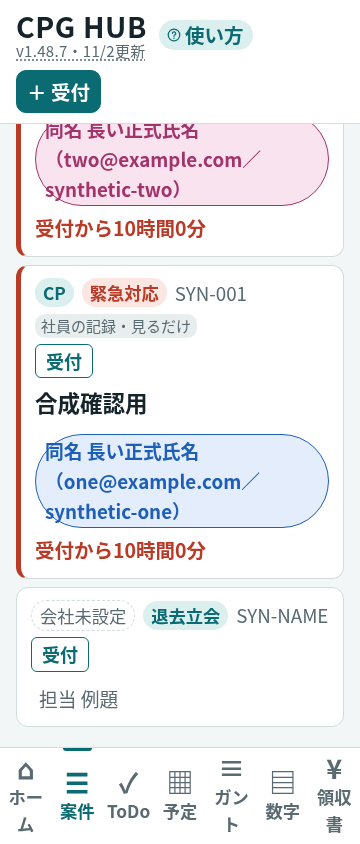
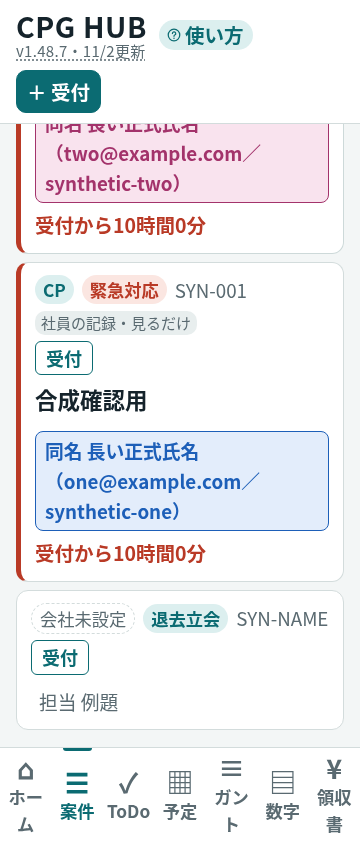
Guard ambiguous name keys and order name history by predecessor links

Changed region(s): [[0.0306, 0.1232, 0.9472, 0.8626]]

diff --git a/index.html b/index.html
@@ -164,11 +164,11 @@ details.fold>.panel>h3:first-child{display:none}
 .chip.nco{background:transparent;color:var(--muted);font-weight:400;border:1px dashed var(--line)}
 .chip.ro{background:var(--sunk);color:var(--muted);font-size:10px;font-weight:400;padding:0 6px}
 /* 担当のバッジ：社員一覧の順で決まる色（同じ人は同じ色・同じ表記） */
-.pbadge{display:inline-block;font-size:12.5px;font-weight:700;padding:1px 9px;border-radius:99px;white-space:nowrap;border:1px solid currentColor}
+.pbadge{display:inline-block;font-size:12.5px;font-weight:700;padding:4px 9px;border-radius:8px;white-space:nowrap;border:1px solid currentColor;line-height:1.6;max-width:100%;height:auto;box-sizing:border-box}
 .pb0{color:var(--blue);background:var(--blue-soft)}.pb1{color:var(--gc1);background:var(--gc1-soft)}.pb2{color:var(--green);background:var(--green-soft)}
 .pb3{color:var(--gc0);background:var(--gc0-soft)}.pb4{color:var(--amber);background:var(--amber-soft)}.pb5{color:var(--gc2);background:var(--gc2-soft)}
 .pbx{color:var(--fg);background:var(--sunk)}
-.pbadge.sm{font-size:10.5px;padding:0 6px}
+.pbadge.sm{font-size:10.5px;padding:2px 6px;border-radius:6px}
 /* 領収書の切り替え：予定の 月/週/日 と同じ大きさ。4つ（法人カードあり）でも400px幅に収める */
 .seg.cv.rtabs button{flex:1 1 auto;min-width:0;padding:8px 4px;white-space:nowrap;font-size:clamp(13px,4vw,18px)}
 .chip.t-kinkyu{background:var(--red-soft);color:var(--red)}
@@ -559,7 +559,7 @@ const typeKeyOf=l=>Object.keys(TYPES).find(k=>TYPES[k].label===l)||"reno";
 function roCase(r,x){
   const v=k=>String(r[k]==null?"":r[k]), d=k=>v(k).slice(0,10), num=k=>v(k)===""?null:Number(v(k));
   const stage=STAGES[v("段階キー")]?v("段階キー"):Object.keys(STAGES).find(k=>STAGES[k]===v("段階"))||"new", paid=Number(v("入金済額"))||0;
-  return Object.assign(CASE_DEFAULTS(),{ro:true,company:COMPANIES.includes(v("会社"))?v("会社"):"",owner:x.s.name,srcId:v("受付番号"),id:v("受付番号")+"・"+x.s.sheetId,type:typeKeyOf(v("種類")),stage,clientKind:"",client:v("依頼元"),property:v("物件"),room:v("部屋"),tantou:tantouLabel(v("担当")||x.s.name,x.s.sheetId),
+  return Object.assign(CASE_DEFAULTS(),{ro:true,company:COMPANIES.includes(v("会社"))?v("会社"):"",owner:x.s.name,srcId:v("受付番号"),id:v("受付番号")+"・"+x.s.sheetId,type:typeKeyOf(v("種類")),stage,clientKind:"",client:v("依頼元"),property:v("物件"),room:v("部屋"),tantou:tantouLabel(v("担当"),x.s.sheetId),
     receivedAt:v("受付日時")||(d("受付日")?new Date(d("受付日")+"T00:00:00").toISOString():""),planDate:d("予定日"),planTime:v("予定時刻（日本時間）"),cancelledAt:v("受注後取消日時"),cancelReason:v("受注後取消理由"),siteDate:d("実施日"),estAmount:num("見積額"),estSentDate:d("見積提出日"),holdDate:d("保留日"),lossDate:d("失注日"),lossReason:v("失注理由"),
     orderDate:d("受注日"),jobNo:v("仕事番号"),handedDate:d("引渡日"),builtDate:d("施工完了日"),billDate:d("請求日"),billAmount:num("請求額"),payDue:d("入金予定日"),payments:paid?[{date:d("入金日")||d("請求日"),amount:paid}]:[],paidDate:stage==="paid"?d("入金日"):""});
 }
@@ -641,11 +641,11 @@ function personBadge(name,small,owner){
  return '<span class="pbadge '+(i<0?"pbx":"pb"+(i%6))+(small?' sm':'')+'">'+h(lab)+'</span>';
 }
 function tantouOptions(){
- const list=nameList(),pk=p=>p.sheetId||p.name,out=STAFF.map(v=>({v,l:tantouLabel(v)})),taken=new Set(STAFF.map(v=>personOf(v,ownOwner())).filter(Boolean).map(pk));
- for(const p of list)if(!p.removed&&!taken.has(pk(p))){const v=p.nameKey||p.registeredName||p.name;out.push({v,l:personLabel(p),disabled:list.filter(x=>(x.nameKey||x.registeredName||x.name)===v).length>1});taken.add(pk(p))}
+ const list=nameList(),pk=p=>p.sheetId||p.name,out=STAFF.map(v=>({v,l:tantouLabel(v),disabled:CPGNames.matches(list,v,STAFF).length>1})),taken=new Set(STAFF.map(v=>personOf(v,ownOwner())).filter(Boolean).map(pk));
+ for(const p of list)if(!p.removed&&!taken.has(pk(p))){const v=p.nameKey||p.registeredName||p.name;out.push({v,l:personLabel(p),disabled:CPGNames.matches(list,v,STAFF).length>1});taken.add(pk(p))}
  const seen=new Set();return out.filter(o=>!seen.has(o.v)&&seen.add(o.v));
 }
-const tantouOptsHtml=()=>tantouOptions().map(o=>'<option value="'+h(o.v)+'"'+(o.disabled?' disabled':'')+'>'+h(o.l)+(o.disabled?'（キー重複・選択不可）':'')+'</option>').join("");
+const tantouOptsHtml=()=>tantouOptions().map(o=>'<option value="'+h(o.v)+'"'+(o.disabled?' disabled':'')+'>'+h(o.l)+(o.disabled?'（氏名重複・選択不可）':'')+'</option>').join("");
 const isEizen=c=>c.type==="eizen";
 const isTaikyo=c=>c.type==="taikyo";
 const itemsSum=(c,b)=>c.items.filter(i=>!b||i.burden===b).reduce((s,i)=>s+(Number(i.amount)||0),0);
@@ -2306,7 +2306,7 @@ async function dataSync(step){
   }
   try{if(!tabsKnown||tabs.includes("連絡")||DB.requestBoxEmployee){const r=await requestBoxSync(id);step("指示箱（GM・全社）",true,"未完了 "+r.open+"件・完了報告 "+r.sent+"件");}}
   catch(err){if(err.message==="signin"||err.requestBoxStopped||caseSaveUncertain)throw err;step("指示箱（GM・全社）",false,err.message||dMsg(err));}
-  if(tabs.includes(NAME_TAB)){try{const rows=await namesRead(id),p=CPGNames.overlay([{name:RS().name||"",sheetId:id}],rows)[0];D().nameProfile=p;shareSave();step("正規氏名",!CPGNames.pending(rows,id).length,CPGNames.pending(rows,id).length?"変更の確認途中です。確認済みの表示名を使います":"表示名を確認しました")}catch(err){step("正規氏名",false,dMsg(err))}}
+  if(tabs.includes(NAME_TAB)){try{const rows=await namesRead(id),p=CPGNames.overlay([{name:RS().name||"",sheetId:id}],rows)[0];D().nameProfile=p;shareSave();step("正規氏名",!CPGNames.pending(rows,id).length,CPGNames.pending(rows,id).length?"変更の確認途中です。確認済みの表示名を使います":"表示名を確認しました")}catch(err){if(caseSaveUncertain||err.message==="signin")throw err;step("正規氏名",false,dMsg(err))}}
   d.todo=dataRows().todo;
   for(const [tab,rows] of [["案件",d.cases],["入金",d.pay],["立替",d.rc],["ToDo",d.todo]]){
     try{await sheetWrite(id,tab,rows);step("記録シート「"+tab+"」",true,(rows.length-1)+"行")}catch(err){step("記録シート「"+tab+"」",false,dMsg(err))}
@@ -2634,7 +2634,7 @@ async function adminNameSave(sheetId,name,log=()=>{}){return adminShareOperation
  const d=D(),list=d.listId,p=d.staff.find(x=>x.sheetId===sheetId&&!x.removed);if(!p)throw Error("変更できる社員が見つかりません。");
  const initial=await namesRead(list),pending=CPGNames.pending(initial,sheetId);if(pending.length>1)throw Error("未確認の氏名変更が複数あります。個別確認してください。");
  let change=pending[0];if(change&&CPGNames.clean(name)!==change.after)throw Error("未確認の変更「"+change.after+"」を先に再確認してください。");
- if(!change&&CPGNames.clean(name)===CPGNames.clean(p.name)){const last=initial.filter(x=>x.sheetId===sheetId&&x.state==='confirmed').at(-1);if(last)change=initial.find(x=>x.id===last.id&&x.state==='intent');}
+ if(!change&&CPGNames.clean(name)===CPGNames.clean(p.name)){const last=CPGNames.chain(initial,sheetId).at(-1);if(last)change=initial.find(x=>x.id===last.id&&x.state==='intent');}
  if(!change)change=CPGNames.change(p,name,crypto.randomUUID(),new Date().toISOString());
  const targets=[sheetId,...(d.viewListId?[d.viewListId]:[])];if(new Set([list,...targets]).size!==targets.length+1)throw Error("氏名の保存先IDが重複しています。");
  const source=(await sheetRead(list,["社員"]))["社員"]||[],token=G.token;

diff --git a/manual-admin.html b/manual-admin.html
@@ -172,7 +172,7 @@ th{color:var(--muted);font-size:13px}
 <section><h2>v1.48.2（2026年11月1日）日付のずれと文字の折り返し</h2><p>同期結果の「日付の変わった案件」には受付番号・物件・部屋と、HUBの予定日／カレンダーに登録した日付を表示します。最初の5件を表示し、「ほか○件」で残りを開閉できます。案件を押すとGoogleカレンダー欄へ移動します。日付のずれは同期エラーとは別の「要確認」です。必要な更新は本人が「カレンダーの予定を更新」を押して行います。自動更新はしません。文字が大きい場合も枠内で折り返し、広い表は表の中で横にスクロールします。</p></section>
 <section><h2>v1.48.3（2026年11月1日）数字の月別・全期間</h2><p>数字画面の「月別／全期間」で集計期間を切り替えます。月別の初期表示は日本時間の今月で、年月を選ぶか「前月」「翌月」で移動できます。見積提出は見積提出日、受注は受注日、失注は失注日で数え、担当別・種類別・理由・受注額・決定率を同じ期間で比べられます。全期間も日付のない実績は含めません。決定率は受注÷（受注＋失注）、0件なら「—」です。失注日未入力の注意は期間外の独立表示で、失注件数・決定率に含めません。未入金は現在残高で、選択期間の対象外です。失注段階優先と正しい受注後取消の受注履歴は従来どおりです。</p></section>
 <section><h2>v1.48.4（2026年11月1日）同期をホームの先頭へ</h2><p>ホームは、ヘッダーの直下に「Googleとまとめて同期」ボタンと同期結果を表示し、その下に今日のまとめ、タスクリクエスト、会社の動き（社長・全社・GM）を並べます。同期成功時の開閉や、エラー・今日未同期・未送信の完了報告・日付のずれ等の注意は従来どおりです。配置だけの変更で、同期・保存・権限・集計は変わりません。</p></section>
-<section><h2>v1.48.7（2026年11月2日）氏名をフルネームで表示</h2><p>社員一覧で確認できる正式な氏名を、担当・案件・ToDo・数字などに表示します。過去の担当名や案件の記録は書き換えません。同姓同名はGmailとシートIDで区別し、誰か分からない略称は推測せず元の表示を残します。</p><p>正規氏名の変更は社長用の「数字」→「管理（社長用）」→対象社員の「正規氏名」から行います。変更前後・旧担当キー・保存先を確認し「変更を確認して保存」を押します。「やめる」または確認画面を閉じると変更しません。管理者が変更した後、社員・閲覧者は新版で同期すると表示に反映します。旧版は正規氏名の変更履歴を読みません。</p><p>変更は既存シートの「社員氏名履歴」に追記します。氏名・旧名・シートID・変更日時を含み、既存の閲覧権限を持つ人が読めます。新しい権限は付けません。通信途中の失敗時は成功と考えず、同じ名前で再確認してください。複数シートへの反映は一括ではないため、一部だけ反映する場合があります。管理操作は1端末・1タブずつ行ってください。社員本人の従来の氏名設定・過去の精算書や指示に記録された名前は、自動置換しません。</p></section>
+<section><h2>v1.48.7（2026年11月2日）氏名をフルネームで表示</h2><p>社員一覧で確認できる正式な氏名を、担当・案件・ToDo・数字などに表示します。過去の担当名や案件の記録は書き換えません。同姓同名はGmailとシートIDで区別し、正規名と旧名が重なる担当選択は無効にします。誰か分からない略称は推測せず元の表示を残します。</p><p>正規氏名の変更は社長用の「数字」→「管理（社長用）」→対象社員の「正規氏名」から行います。変更前後・旧担当キー・保存先を確認し「変更を確認して保存」を押します。「やめる」または確認画面を閉じると変更しません。管理者が変更した後、社員・閲覧者は新版で同期すると表示に反映します。旧版は正規氏名の変更履歴を読みません。</p><p>変更は既存シートの「社員氏名履歴」に追記します。氏名・旧名・シートID・変更日時を含み、既存の閲覧権限を持つ人が読めます。新しい権限は付けません。通信途中の失敗時は成功と考えず、同じ名前で再確認してください。複数シートへの反映は一括ではないため、一部だけ反映する場合があります。管理操作は1端末・1タブずつ行ってください。社員本人の従来の氏名設定・過去の精算書や指示に記録された名前は、自動置換しません。</p></section>
 <section><h2>v1.48.6（2026年11月2日）GMの範囲と共有の確認</h2><p>GMが見たり指示を出したりできる相手は、GMと同じ1社だけに所属する一般社員です。複数会社に所属する人、全社・GMなどの管理者は含めません。全社の範囲は従来どおりです。会社・役割を保存するときは、共有の一覧（誰のシート・ファイルID・相手・権限）を確認してから実行します。旧共有や変更元を確認できない共有は残し、「要確認」と表示します。役割を外しても、要確認の共有が残る場合はGoogle上のアクセスが続きます。自動的に全部外れたとは考えず、管理者が個別に確認してください。</p><p>共有確認後、社長の社員一覧に「共有管理履歴」を作り、変更前後の権限とGmail・ファイルID・日時を追記します。初回表示や通常同期では作りません。作成済みの社員列と指示箱の列は変えません。この機能で新しく付け、結果と履歴の読戻しまで確認できた共有だけを解除対象にします。既存の共有は再利用しても解除対象にしません。結果不明・履歴不整合・外部変更では自動再試行せず、表示された対象を確認してください。管理操作は1端末・1タブで行い、Driveの共有変更と同時に行わないでください。同じ内容で外部から付け直された共有まで識別する保証はありません。新規作成を途中でやめてもファイルは残します。案内メールは自動送信しません。旧版では安全確認が働かないため、管理に使う全端末・旧タブを更新してから操作してください。</p></section>
 <section><h2>v1.48.5（2026年11月1日）保存済み予定と未取得日の区別</h2><p>予定の月・週・日表示では、保存済みの範囲に重なる予定を表示します。月の前後の余白が保存範囲外でも、取得済みの月の予定は消えません。範囲外や読込みが確認できない日は「未取得」と表示し、「予定なし」と区別します。一部のカレンダーを読めなかった場合も、取得できた予定を表示しながら未取得の注意を残します。最新の予定を取得する操作は従来どおり「Googleとまとめて同期」です。Googleの予定・同期処理・保存形式・閲覧権限は変更しません。</p></section>
 </main>

diff --git a/manual.html b/manual.html
@@ -404,7 +404,7 @@ th{color:var(--muted);font-size:13px}
 <section><h2>v1.48.2（2026年11月1日）日付のずれと文字の折り返し</h2><p>同期結果の「日付の変わった案件」には受付番号・物件・部屋と、HUBの予定日／カレンダーに登録した日付を表示します。最初の5件を表示し、「ほか○件」で残りを開閉できます。案件を押すとGoogleカレンダー欄へ移動します。日付のずれは同期エラーとは別の「要確認」です。必要な更新は本人が「カレンダーの予定を更新」を押して行います。自動更新はしません。文字が大きい場合も枠内で折り返し、広い表は表の中で横にスクロールします。</p></section>
 <section><h2>v1.48.3（2026年11月1日）数字の月別・全期間</h2><p>数字画面の「月別／全期間」で集計期間を切り替えます。月別の初期表示は日本時間の今月で、年月を選ぶか「前月」「翌月」で移動できます。見積提出は見積提出日、受注は受注日、失注は失注日で数え、担当別・種類別・理由・受注額・決定率を同じ期間で比べられます。全期間も日付のない実績は含めません。決定率は受注÷（受注＋失注）、0件なら「—」です。失注日未入力の注意は期間外の独立表示で、失注件数・決定率に含めません。未入金は現在残高で、選択期間の対象外です。失注段階優先と正しい受注後取消の受注履歴は従来どおりです。</p></section>
 <section><h2>v1.48.4（2026年11月1日）同期をホームの先頭へ</h2><p>ホームは、ヘッダーの直下に「Googleとまとめて同期」ボタンと同期結果を表示し、その下に今日のまとめ、タスクリクエスト、会社の動き（社長・全社・GM）を並べます。同期成功時の開閉や、エラー・今日未同期・未送信の完了報告・日付のずれ等の注意は従来どおりです。配置だけの変更で、同期・保存・権限・集計は変わりません。</p></section>
-<section><h2>v1.48.7（2026年11月2日）氏名をフルネームで表示</h2><p>社員一覧で確認できる正式な氏名を、担当・案件・ToDo・数字などに表示します。過去の担当名や案件の記録は書き換えません。同姓同名はGmailとシートIDで区別し、誰か分からない略称は推測せず元の表示を残します。</p><p>正規氏名の変更は社長用の「数字」→「管理（社長用）」→対象社員の「正規氏名」から行います。変更前後・旧担当キー・保存先を確認し「変更を確認して保存」を押します。「やめる」または確認画面を閉じると変更しません。管理者が変更した後、社員・閲覧者は新版で同期すると表示に反映します。旧版は正規氏名の変更履歴を読みません。</p><p>変更は既存シートの「社員氏名履歴」に追記します。氏名・旧名・シートID・変更日時を含み、既存の閲覧権限を持つ人が読めます。新しい権限は付けません。通信途中の失敗時は成功と考えず、同じ名前で再確認してください。複数シートへの反映は一括ではないため、一部だけ反映する場合があります。管理操作は1端末・1タブずつ行ってください。社員本人の従来の氏名設定・過去の精算書や指示に記録された名前は、自動置換しません。</p></section>
+<section><h2>v1.48.7（2026年11月2日）氏名をフルネームで表示</h2><p>社員一覧で確認できる正式な氏名を、担当・案件・ToDo・数字などに表示します。過去の担当名や案件の記録は書き換えません。同姓同名はGmailとシートIDで区別し、正規名と旧名が重なる担当選択は無効にします。誰か分からない略称は推測せず元の表示を残します。</p><p>正規氏名の変更は社長用の「数字」→「管理（社長用）」→対象社員の「正規氏名」から行います。変更前後・旧担当キー・保存先を確認し「変更を確認して保存」を押します。「やめる」または確認画面を閉じると変更しません。管理者が変更した後、社員・閲覧者は新版で同期すると表示に反映します。旧版は正規氏名の変更履歴を読みません。</p><p>変更は既存シートの「社員氏名履歴」に追記します。氏名・旧名・シートID・変更日時を含み、既存の閲覧権限を持つ人が読めます。新しい権限は付けません。通信途中の失敗時は成功と考えず、同じ名前で再確認してください。複数シートへの反映は一括ではないため、一部だけ反映する場合があります。管理操作は1端末・1タブずつ行ってください。社員本人の従来の氏名設定・過去の精算書や指示に記録された名前は、自動置換しません。</p></section>
 <section><h2>v1.48.6（2026年11月2日）GMの範囲と共有の確認</h2><p>GMが見たり指示を出したりできる相手は、GMと同じ1社だけに所属する一般社員です。複数会社に所属する人、全社・GMなどの管理者は含めません。全社の範囲は従来どおりです。会社・役割を保存するときは、共有の一覧（誰のシート・ファイルID・相手・権限）を確認してから実行します。旧共有や変更元を確認できない共有は残し、「要確認」と表示します。役割を外しても、要確認の共有が残る場合はGoogle上のアクセスが続きます。自動的に全部外れたとは考えず、管理者が個別に確認してください。</p></section>
 <section><h2>v1.48.5（2026年11月1日）保存済み予定と未取得日の区別</h2><p>予定の月・週・日表示では、保存済みの範囲に重なる予定を表示します。月の前後の余白が保存範囲外でも、取得済みの月の予定は消えません。範囲外や読込みが確認できない日は「未取得」と表示し、「予定なし」と区別します。一部のカレンダーを読めなかった場合も、取得できた予定を表示しながら未取得の注意を残します。最新の予定を取得する操作は従来どおり「Googleとまとめて同期」です。Googleの予定・同期処理・保存形式・閲覧権限は変更しません。</p></section>
 </main>

diff --git a/staff-names.js b/staff-names.js
@@ -6,14 +6,14 @@ const clean=x=>String(x||'').trim().replace(/[\s　]+/g,' ');
 const same=(a,b)=>flat(a)===flat(b);
 const aliases=p=>[p.name,p.registeredName,p.nameKey,...(p.nameAliases||[])].filter(x=>typeof x==='string'&&x.trim());
 function shortNames(p,known){return aliases(p).flatMap(n=>{const parts=clean(n).split(' '),f=flat(n),family=parts.length>1?parts[0]:(known||[]).find(k=>f.startsWith(k)&&f.length>k.length);return family?[family,family+f.slice(family.length,family.length+1)]:[]})}
+function matches(list,key,known){const n=String(key||'').trim();if(!n)return [];const exact=list.filter(p=>aliases(p).some(a=>same(a,n)));return exact.length?exact:list.filter(p=>shortNames(p,known).some(a=>same(a,n)));}
 function resolve(list,key,owner,known){
- const n=String(key||'').trim();const ownerMatches=list.filter(p=>p.sheetId===owner||aliases(p).some(a=>same(a,owner)));
- const own=ownerMatches.length===1?ownerMatches[0]:null;
- if(!n)return own;
- const exact=list.filter(p=>aliases(p).some(a=>same(a,n)));
- if(exact.length)return exact.length===1?exact[0]:own&&exact.includes(own)?own:null;
- const matches=list.filter(p=>shortNames(p,known).some(a=>same(a,n)));
- return matches.length===1?matches[0]:own&&matches.includes(own)?own:null;
+ const n=String(key||'').trim(),own=list.filter(p=>p.sheetId===owner||aliases(p).some(a=>same(a,owner)));
+ if(!n)return own.length===1?own[0]:null;
+ const found=matches(list,n,known);
+ // Full/old-name collisions never resolve by owner: the key may name somebody else.
+ if(list.some(p=>aliases(p).some(a=>same(a,n))))return found.length===1?found[0]:null;
+ return found.length===1?found[0]:own.length===1&&found.includes(own[0])?own[0]:null;
 }
 function label(p,list){const n=clean(p.name);return list.filter(x=>same(x.name,n)).length>1?n+'（'+([p.email,p.sheetId].filter(Boolean).join('／')||'本人未特定')+'）':n}
 function parse(rows){
@@ -21,16 +21,25 @@ function parse(rows){
  for(const r of rows){
   if(!r||typeof r.id!=='string'||!r.id||typeof r.sheetId!=='string'||!r.sheetId||!['intent','confirmed'].includes(r.state)||typeof r.before!=='string'||typeof r.after!=='string'||!clean(r.before)||!clean(r.after)||typeof r.registeredName!=='string'||!r.registeredName||!Array.isArray(r.aliases)||r.aliases.some(n=>typeof n!=='string')||!Number.isFinite(Date.parse(r.at)))throw Error('氏名変更履歴が不整合です。保存を止めました。');
   const key=r.id+':'+r.state,old=byId.get(key);if(old){if(JSON.stringify(old)!==JSON.stringify(r))throw Error('同じ氏名変更IDに違う内容があります。');continue;}
-  if(r.state==='confirmed'){const intent=byId.get(r.id+':intent');if(!intent||['sheetId','before','after','registeredName','at'].some(k=>r[k]!==intent[k])||JSON.stringify(r.aliases)!==JSON.stringify(intent.aliases))throw Error('氏名変更の確認記録が一致しません。');}
+  if(r.state==='confirmed'){const intent=byId.get(r.id+':intent');if(!intent||['sheetId','before','after','registeredName','at','previousId'].some(k=>r[k]!==intent[k])||JSON.stringify(r.aliases)!==JSON.stringify(intent.aliases))throw Error('氏名変更の確認記録が一致しません。');}
   byId.set(key,r);ordered.push(r);
  }
  return ordered;
 }
-function overlay(staff,rows){const entries=parse(rows);return staff.map(p=>{
- const last=entries.filter(r=>r.sheetId===p.sheetId&&r.state==='confirmed').at(-1);
- return last?{...p,name:last.after,registeredName:p.registeredName||p.name,nameKey:last.registeredName,nameAliases:last.aliases,nameHistory:entries.filter(r=>r.sheetId===p.sheetId&&r.state==='confirmed').map(({before,after,at})=>({before,after,at}))}:p;
+function chain(rows,sheetId){
+ const entries=parse(rows).filter(r=>r.sheetId===sheetId&&r.state==='confirmed'),byId=new Map(entries.map(r=>[r.id,r]));
+ if(!entries.length)return [];
+ const children=new Map();for(const r of entries){const prev=r.previousId||'';if(prev===r.id)throw Error('氏名履歴の参照が循環しています。');if(children.has(prev))throw Error('氏名履歴の順序が曖昧です。');children.set(prev,r);if(byId.has(prev)){const p=byId.get(prev);if(p.after!==r.before||p.registeredName!==r.registeredName)throw Error('氏名履歴の前後が一致しません。');}}
+ // Detect cycles, including disconnected ones; missing predecessors remain unresolved.
+ for(const r of entries){const seen=new Set();let at=r;while(at){if(seen.has(at.id))throw Error('氏名履歴の参照が循環しています。');seen.add(at.id);at=byId.get(at.previousId)}}
+ const path=[];let r=children.get('');while(r){path.push(r);r=children.get(r.id)}
+ if(path.length!==entries.length)return [];return path;
+}
+function overlay(staff,rows){return staff.map(p=>{
+ const path=chain(rows,p.sheetId),last=path.at(-1);
+ return last?{...p,name:last.after,registeredName:p.registeredName||p.name,nameKey:last.registeredName,nameChangeId:last.id,nameAliases:last.aliases,nameHistory:path.map(({before,after,at})=>({before,after,at}))}:p;
 })}
-function pending(rows,sheetId){const r=parse(rows);return r.filter(x=>x.sheetId===sheetId&&x.state==='intent'&&!r.some(y=>y.id===x.id&&y.state==='confirmed'));}
-function change(p,after,id,at){const n=clean(after);if(!n||n.length>100||/[\u0000-\u001f<>]/.test(n))throw Error('氏名は1〜100文字で入力してください。');if(n===clean(p.name))throw Error('氏名は変わっていません。');return {id,sheetId:p.sheetId,state:'intent',before:clean(p.name),after:n,registeredName:p.nameKey||p.registeredName||p.name,aliases:[...new Set(aliases(p).map(clean))],at};}
-return {flat,clean,resolve,label,parse,overlay,pending,change};
+function pending(rows,sheetId){const r=parse(rows),resolved=new Set(chain(r,sheetId).map(x=>x.id));return r.filter(x=>x.sheetId===sheetId&&x.state==='intent'&&!resolved.has(x.id));}
+function change(p,after,id,at){const n=clean(after);if(!n||n.length>100||/[\u0000-\u001f<>]/.test(n))throw Error('氏名は1〜100文字で入力してください。');if(n===clean(p.name))throw Error('氏名は変わっていません。');return {id,previousId:p.nameChangeId||'',sheetId:p.sheetId,state:'intent',before:clean(p.name),after:n,registeredName:p.nameKey||p.registeredName||p.name,aliases:[...new Set(aliases(p).map(clean))],at};}
+return {flat,clean,matches,resolve,label,parse,chain,overlay,pending,change};
 });
